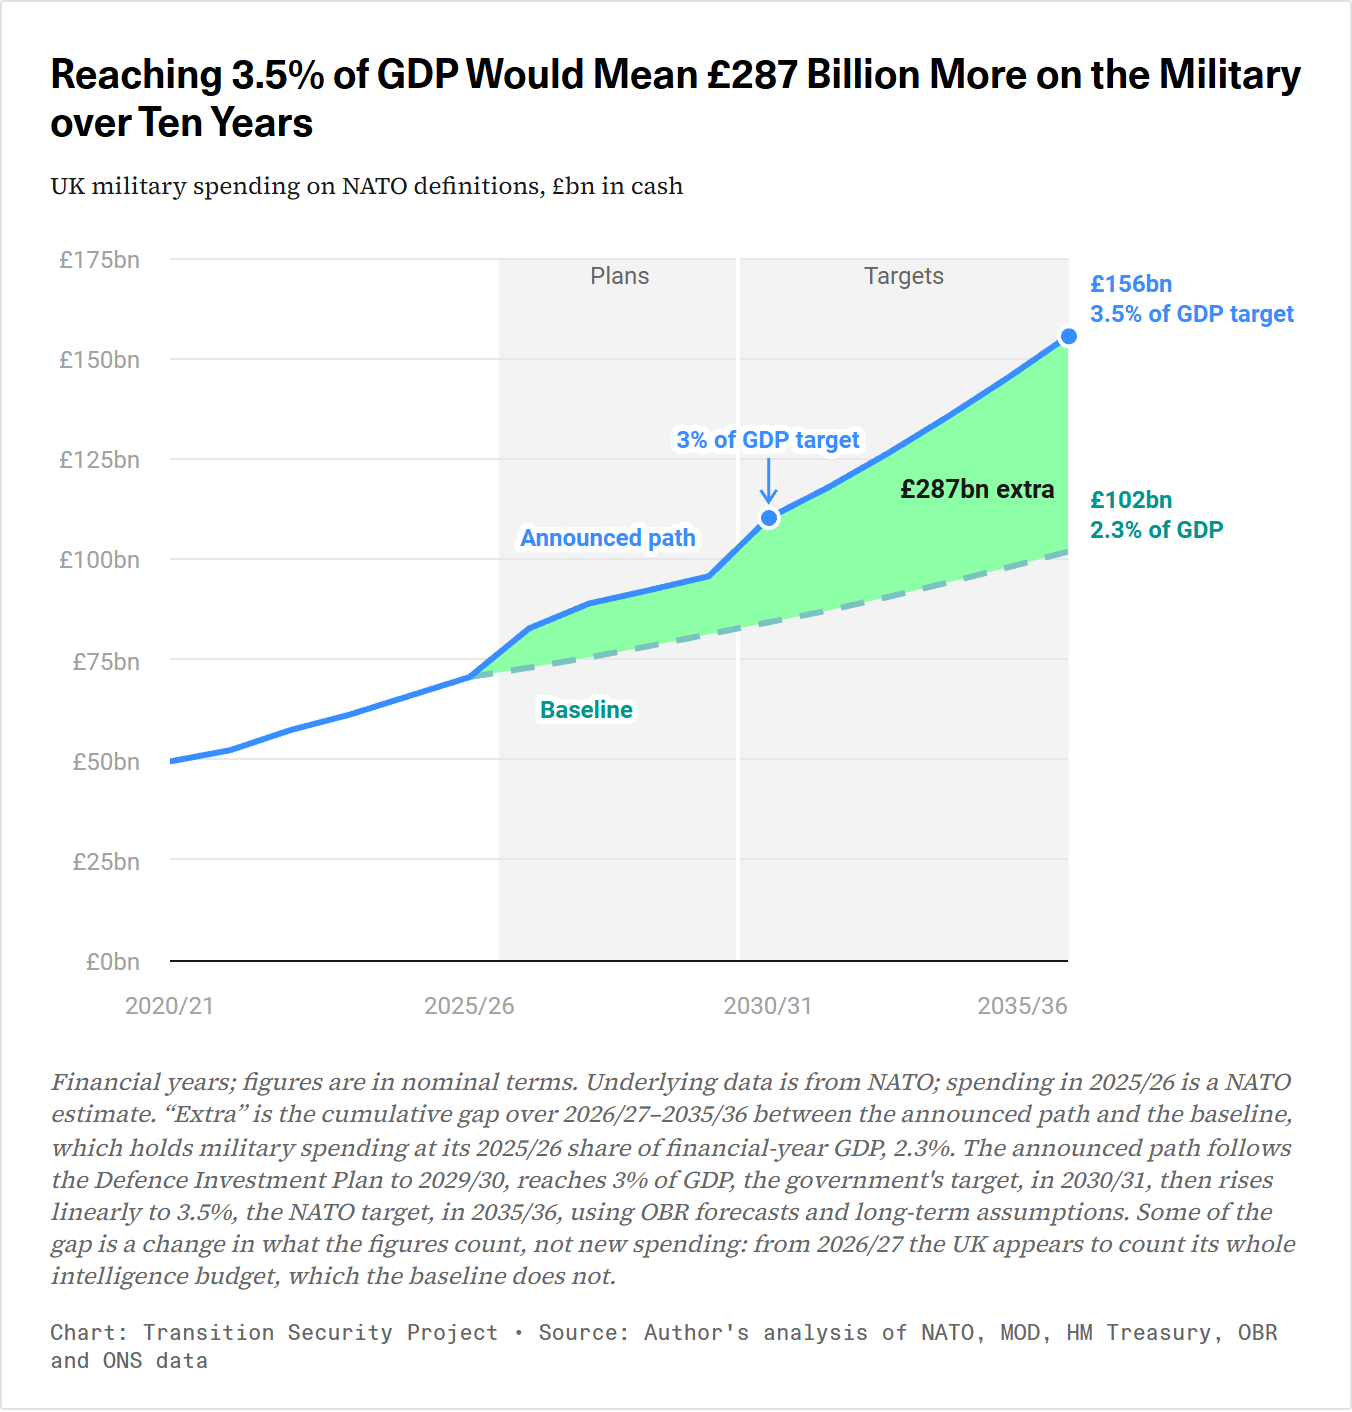
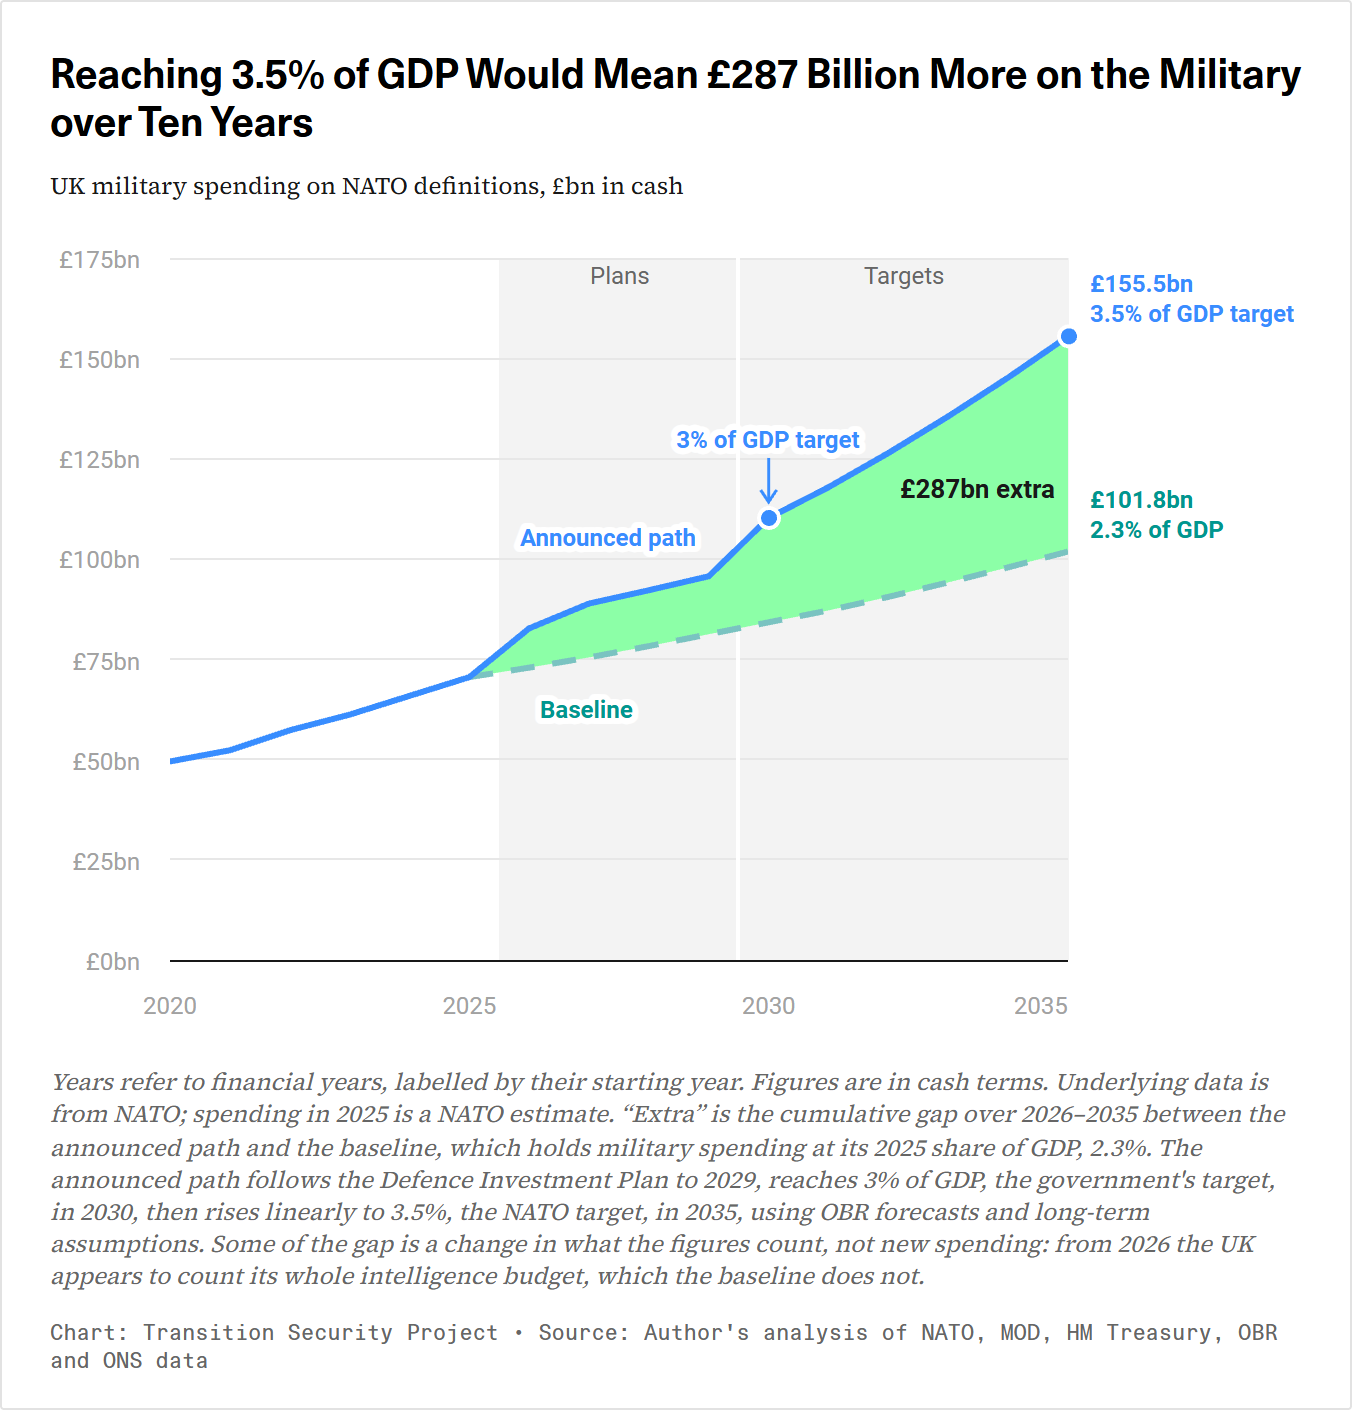
Update the separate pages

diff --git a/js/extra-spending.js b/js/extra-spending.js
@@ -52,7 +52,8 @@ start(["model_inputs.json"], (inputs) => {
         data: [], zIndex: 0, accessibility: { enabled: false } },
       { name: `Spending to ${lab(BASE)}, then the announced path`, color: COLOURS.blue, lineWidth: 3, data: [], zIndex: 3,
         accessibility: { point: { descriptionFormatter: (p) => pointText(p.x, p.x > BASE ? "Announced path" : "Spending", p.y) } } },
-      { name: "Baseline", color: COLOURS.teal, lineWidth: 3, dashStyle: "Dash", data: [], zIndex: 2 },
+      { name: "Baseline", color: COLOURS.teal, lineWidth: 3, dashStyle: "Dash", data: [], zIndex: 2,
+        accessibility: { point: { descriptionFormatter: (p) => pointText(p.x, p.series.name, p.y) } } },
       { type: "scatter", name: "Extra spending label", data: [], marker: { enabled: false }, enableMouseTracking: false,
         accessibility: { enabled: false }, zIndex: 4 },
     ],
@@ -156,15 +157,15 @@ start(["model_inputs.json"], (inputs) => {
 
     setTitle(el("title"), `Reaching ${c.TARGETS[LAST]}% of GDP Would Mean £${fixed(r.gap / 1000, 0)} Billion More on the `
       + `Military over ${span[0].toUpperCase() + span.slice(1)} Years${state.units === "real" ? ` (${lab(PRICE_YEAR)} Prices)` : ""}`);
-    el("description").textContent = `UK military spending on NATO definitions, £bn ${units}`;
+    el("description").textContent = `UK military spending ${state.units === "cash" ? "" : "in real terms "}on NATO definitions, £bn ${units}`;
     const i = r.years.length - 1;
 
     const pts = r.years.map((y, k) => [y, r.announced[k] / 1000]);
     const heldPts = r.years.filter((y) => y >= BASE).map((y) => [y, r.held[r.years.indexOf(y)] / 1000]);
     const gapPts = r.years.filter((y) => y >= BASE).map((y) => { const k = r.years.indexOf(y); return [y, r.held[k] / 1000, r.announced[k] / 1000]; });
-    // The end labels give the last year's figures; on narrow frames, the figures alone.
-    const pathEnd = `£${fixed(pts[i][1], 0)}bn${small ? "" : `<br>${c.TARGETS[LAST]}% of GDP target`}`;
-    const heldEnd = `£${fixed(heldPts.at(-1)[1], 0)}bn${small ? "" : `<br>${r.sharesHeld[i].toFixed(1)}% of GDP`}`;
+    // The end labels give the last year's figures, to one decimal; on narrow frames, the figures alone.
+    const pathEnd = `£${fixed(pts[i][1], 1)}bn${small ? "" : `<br>${c.TARGETS[LAST]}% of GDP target`}`;
+    const heldEnd = `£${fixed(heldPts.at(-1)[1], 1)}bn${small ? "" : `<br>${r.sharesHeld[i].toFixed(1)}% of GDP`}`;
     const end = (text, color) => ({ enabled: true, crop: false, overflow: "allow", allowOverlap: true, align: "left", x: 6, y: 0,
       formatter: () => text, style: LABEL(color) });
     const mark = { enabled: true, symbol: "circle", radius: 5, fillColor: COLOURS.blue, lineColor: "#ffffff", lineWidth: 2 };
@@ -218,10 +219,11 @@ start(["model_inputs.json"], (inputs) => {
     if (lift > 0 || nameShift > 0 || spot !== undefined) chart.redraw();
 
     el("notes").textContent = [
-      `Financial years; figures are in ${state.units === "cash" ? "nominal terms" : `${prices}, using a GDP deflator`}.`,
+      "Years refer to financial years, labelled by their starting year.",
+      `Figures are in ${state.units === "cash" ? "cash terms" : `${prices}, using a GDP deflator`}.`,
       `Underlying data is from NATO; spending in ${lab(BASE)} is a NATO estimate.`,
       `“Extra” is the cumulative gap over ${lab(BASE + 1)}–${lab(LAST)} between the announced path and the baseline, which `
-        + `holds military spending at its ${lab(heldYear)} share of financial-year GDP, ${heldShare.toFixed(1)}%.`,
+        + `holds military spending at its ${lab(heldYear)} share of GDP, ${heldShare.toFixed(1)}%.`,
       `The announced path follows the Defence Investment Plan to ${lab(PLAN_LAST)}, reaches ${c.TARGETS[UK_TARGET]}% of GDP, `
         + `the government's target, in ${lab(UK_TARGET)}, then rises linearly to ${c.TARGETS[LAST]}%, the NATO target, in `
         + `${lab(LAST)}, using OBR forecasts and long-term assumptions.`,

diff --git a/js/alignment.js b/js/alignment.js
@@ -81,7 +81,7 @@ start(["alignment.json"], (d) => {
   const chart = Highcharts.chart(el("chart"), {
     chart: { type: "pie", spacing: [4, 4, 4, 4], events: { render() { placeLabels(this); placeTotal(this); queueFit(this); } } },
     accessibility: { screenReaderSection: { beforeChartFormat: screenReaderHeading("Global military spending by alignment chart") },
-      description: `Global military expenditure in ${d.year}, ${usd(d.total)}bn: US and US-aligned ${usd(aligned)}bn (${alignedPct}%), `
+      description: `Global military spending in ${d.year}, ${usd(d.total)}bn: US and US-aligned ${usd(aligned)}bn (${alignedPct}%), `
         + `not US-aligned ${usd(g.not_aligned)}bn (${100 - alignedPct}%).`,
       point: { descriptionFormatter: (p) => `${p.name}: ${usd(p.y)}bn, ${p.options.share}%.` } },
     legend: { enabled: false },
@@ -96,7 +96,7 @@ start(["alignment.json"], (d) => {
         formatter() {
           const o = this.point.options;
           return `<div style="text-align:center;white-space:nowrap"><span style="font-weight:700">${this.point.name}`
-            + `${o.breakShare ? "<br>" : " "}(${o.share}%)</span><br>${usd(this.y)}</div>`;
+            + `${o.breakShare ? "<br>" : " "}(${o.share}%)</span><br>${usd(this.y)}bn</div>`;
         },
         style: { fontSize: "13px", width: "170px", textOutline: "none", fontWeight: "normal", textAlign: "center", whiteSpace: "nowrap" } } } },
     series: [{ name: "Military expenditure", data: slices.map((s) => ({ name: s.name, y: s.y, share: s.share, breakShare: s.breakShare,
@@ -106,7 +106,7 @@ start(["alignment.json"], (d) => {
   function update() {
     chart.update({ plotOptions: { pie: { dataLabels: { style: { fontSize: narrow() ? "12px" : "13px" } } } } });
     setTitle(el("title"), "The US and US-Aligned Countries Make Up Almost 80% of Global Military Spending");
-    el("description").textContent = `Global military expenditure by geopolitical alignment, ${d.year}, $bn`;
+    el("description").textContent = `Global military spending by geopolitical alignment, ${d.year}, $bn`;
     // The breakdown of the blue slice: its total, ruled off, then the parts that add up to it.
     const inset = el("inset");
     inset.replaceChildren();
@@ -121,9 +121,10 @@ start(["alignment.json"], (d) => {
     inset.append(list);
     // The world's total, in the chart's units.
     const total = document.createElement("b");
-    total.textContent = usd(d.total);
+    total.textContent = `${usd(d.total)}bn`;
     el("total").replaceChildren("Total", total);
-    el("notes").textContent = "Calendar year; figures are in current US dollars at market exchange rates. US-aligned covers "
+    el("notes").textContent = "Calendar year; figures are in current US dollars at market exchange rates. Underlying data is "
+      + "from SIPRI. US-aligned covers "
       + "NATO members, US major non-NATO allies, Shield of the Americas members and US security partners, and includes "
       + `EU-level expenditure. The US-aligned grouping is ${d.aligned_entities} entities; ${d.not_aligned_countries} countries `
       + `are classified as not US-aligned. Classification is as of ${d.classified_as_of}.`;

diff --git a/js/frame.js b/js/frame.js
@@ -1,17 +1,27 @@
-// The page's height: inside a frame, the page sends it whenever it changes, in the message Datawrapper's embed code
-// listens for, so the frame grows and shrinks with the chart.
+// The page's height: inside a frame, the page sends it in the message Datawrapper's embed code listens for, so the frame
+// fits the page. Nothing is sent while the page is loading, so the frame keeps the height its embed code gives it; the
+// height is sent once the chart has drawn (or the page's error shows), then whenever the page's size changes. It is sent
+// straight after drawing too, since a browser may hold back notices of size changes in a frame that is off screen.
+let send = () => {};
+
 export function setupFrame() {
   if (window.parent === window) return;
   const id = document.body.dataset.chart;
   let sent = 0;
-  const send = () => {
+  send = () => {
+    if (document.querySelector("[data-chart-page][hidden]")) return;
     const height = Math.ceil(document.documentElement.getBoundingClientRect().height);
     if (height === sent) return;
     sent = height;
     window.parent.postMessage({ "datawrapper-height": { [id]: height } }, "*");
   };
-  if (window.ResizeObserver) new ResizeObserver(send).observe(document.documentElement);
-  window.addEventListener("load", send);
-  window.addEventListener("resize", send);
+  if (window.ResizeObserver) new ResizeObserver(() => send()).observe(document.documentElement);
+  window.addEventListener("load", () => send());
+  window.addEventListener("resize", () => send());
+}
+
+// Sends the page's height now, and again after anything the drawing left to a timer.
+export function sendHeight() {
   send();
+  setTimeout(() => send(), 300);
 }

diff --git a/js/historical.js b/js/historical.js
@@ -46,7 +46,8 @@ start(["model_inputs.json"], (inputs) => {
     },
     tooltip: { formatter() { return `${lab(this.x)}: £${this.y.toFixed(1)}bn`; } },
     series: [
-      { name: "NATO", color: COLOURS.blue, lineWidth: 3, data: [] },
+      { name: "NATO", color: COLOURS.blue, lineWidth: 3, data: [],
+        accessibility: { point: { descriptionFormatter: (p) => pointText(p.x, p.series.name, p.y) } } },
       { name: "Announced path", color: COLOURS.blue, lineWidth: 3, dashStyle: "Dash", data: [],
         // Its first point is the NATO figure the path starts from.
         accessibility: { point: { descriptionFormatter: (p) =>
@@ -153,7 +154,8 @@ start(["model_inputs.json"], (inputs) => {
     chart.redraw();
 
     el("notes").textContent = [
-      `Financial years; figures are in ${prices}, using a GDP deflator.`,
+      "Years refer to financial years, labelled by their starting year.",
+      `Figures are in ${prices}, using a GDP deflator.`,
       `Underlying data is from NATO; spending in ${lab(BASE)} is a NATO estimate.`,
       `The Cold War peak is the highest year in ${lab(c.COLD_WAR_FULL[0])}–${lab(c.COLD_WAR_FULL[1])}.`,
       `The announced path (dashed) follows the Defence Investment Plan to ${lab(PLAN_LAST)}, reaches ${c.TARGETS[UK_TARGET]}% `

diff --git a/js/data.js b/js/data.js
@@ -1,7 +1,7 @@
 // Loads what a page needs and draws it once Highcharts, the data and the fonts are ready. If anything fails before the
 // chart has drawn, the page shows its message instead of an empty chart; an error after that leaves the chart as it is.
 import { highchartsDefaults } from "./ui.js";
-import { setupFrame } from "./frame.js";
+import { sendHeight, setupFrame } from "./frame.js";
 
 // Safari before 15.4 lacks Array.prototype.at.
 if (!Array.prototype.at) {
@@ -18,6 +18,7 @@ function fail() {
   if (!drawing) return;
   document.querySelector('[data-el="load-error"]').hidden = false;
   document.querySelectorAll("[data-chart-page]").forEach((el) => el.remove());
+  sendHeight();
 }
 
 // Only errors from the page's own scripts and Highcharts count; scripts that browser extensions add raise errors too.
@@ -52,6 +53,7 @@ export async function start(files, draw, needs = []) {
     const data = await load(files, needs);
     document.querySelectorAll("[data-chart-page]").forEach((el) => { el.hidden = false; });
     draw(...data);
+    sendHeight();
     setTimeout(() => { drawing = false; });
   } catch (error) {
     fail();

diff --git a/js/per-person.js b/js/per-person.js
@@ -52,8 +52,8 @@ start(["per_person.json"], (d) => {
     }, false);
     chart.series[0].setData(points(small), false, false, false);
     chart.redraw();
-    setTitle(el("title"), `UK Military Spending per Person Is ${higher(europe)}% Above the Median for NATO Countries in Europe`);
-    el("description").textContent = `Annual military spending per person, ${d.year}`;
+    setTitle(el("title"), `UK Military Spending per Person Is ${higher(europe)}% above the Median for NATO Countries in Europe`);
+    el("description").textContent = `Annual military spending per person, ${d.year}, $`;
     el("notes").textContent = "Calendar year; figures are in current US dollars at market exchange rates. Underlying data is "
       + "from SIPRI. The medians include the UK; the European NATO grouping excludes Türkiye.";
     el("source").textContent = "Chart: Transition Security Project • Source: Author's analysis of SIPRI data";

diff --git a/historical/index.html b/historical/index.html
@@ -4,7 +4,7 @@
 <meta charset="utf-8">
 <meta name="viewport" content="width=device-width, initial-scale=1">
 <title>At 3.5% of GDP NATO Target, UK Military Spending Would Be 108% above Its Cold War Peak</title>
-<meta name="description" content="UK military spending in real terms, 1950/51–2035/36, against its Cold War peak, on NATO figures and the announced path to 3.5% of GDP.">
+<meta name="description" content="UK military spending in real terms, 1950–2035, against its Cold War peak, on NATO figures and the announced path to 3.5% of GDP.">
 <link rel="icon" href="data:,">
 <link rel="stylesheet" href="../css/style.css">
 <script src="https://cdn.jsdelivr.net/npm/highcharts@11.4.8/highcharts.js" integrity="sha384-XxsZMNol0nU0LnC2cYsyhRNbfyK7CPmF7WrlFvZDdlCKn9hzVkXsHxCHVaKwkl76" crossorigin="anonymous"></script>

diff --git a/extra-spending/index.html b/extra-spending/index.html
@@ -4,7 +4,7 @@
 <meta charset="utf-8">
 <meta name="viewport" content="width=device-width, initial-scale=1">
 <title>Reaching 3.5% of GDP Would Mean £287 Billion More on the Military over Ten Years</title>
-<meta name="description" content="The extra UK military spending needed to reach 3.5% of GDP by 2035/36, against spending held at its share of GDP, in cash or real terms.">
+<meta name="description" content="The extra UK military spending needed to reach 3.5% of GDP by 2035, against spending held at its share of GDP, in cash or real terms.">
 <link rel="icon" href="data:,">
 <link rel="stylesheet" href="../css/style.css">
 <script src="https://cdn.jsdelivr.net/npm/highcharts@11.4.8/highcharts.js" integrity="sha384-XxsZMNol0nU0LnC2cYsyhRNbfyK7CPmF7WrlFvZDdlCKn9hzVkXsHxCHVaKwkl76" crossorigin="anonymous"></script>

diff --git a/alignment/index.html b/alignment/index.html
@@ -4,7 +4,7 @@
 <meta charset="utf-8">
 <meta name="viewport" content="width=device-width, initial-scale=1">
 <title>The US and US-Aligned Countries Make Up Almost 80% of Global Military Spending</title>
-<meta name="description" content="Global military expenditure in 2025 by geopolitical alignment: the US and US-aligned countries against the rest.">
+<meta name="description" content="Global military spending in 2025 by geopolitical alignment: the US and US-aligned countries against the rest.">
 <link rel="icon" href="data:,">
 <link rel="stylesheet" href="../css/style.css">
 <script src="https://cdn.jsdelivr.net/npm/highcharts@11.4.8/highcharts.js" integrity="sha384-XxsZMNol0nU0LnC2cYsyhRNbfyK7CPmF7WrlFvZDdlCKn9hzVkXsHxCHVaKwkl76" crossorigin="anonymous"></script>

diff --git a/js/ui.js b/js/ui.js
@@ -1,7 +1,8 @@
 // What the pages share: number formats, the option controls and the address that keeps them, the colours, and the
 // Highcharts defaults.
 
-export const fyLabel = (y) => `${y}/${String((y + 1) % 100).padStart(2, "0")}`;
+// A financial year is labelled by the year it starts (2025 for 2025/26), as the charts' notes say.
+export const fyLabel = (y) => String(y);
 // A value that rounds to zero is written as zero, never "-0.0". A whole number is rounded from the figure to one
 // decimal, as the boxes give it, so the two always agree.
 const unsigned = (v, digits) => {

diff --git a/per-person/index.html b/per-person/index.html
@@ -3,7 +3,7 @@
 <head>
 <meta charset="utf-8">
 <meta name="viewport" content="width=device-width, initial-scale=1">
-<title>UK Military Spending per Person Is 52% Above the Median for NATO Countries in Europe</title>
+<title>UK Military Spending per Person Is 52% above the Median for NATO Countries in Europe</title>
 <meta name="description" content="UK military spending per person in 2025 against the G7 and European NATO medians, in current US dollars.">
 <link rel="icon" href="data:,">
 <link rel="stylesheet" href="../css/style.css">
